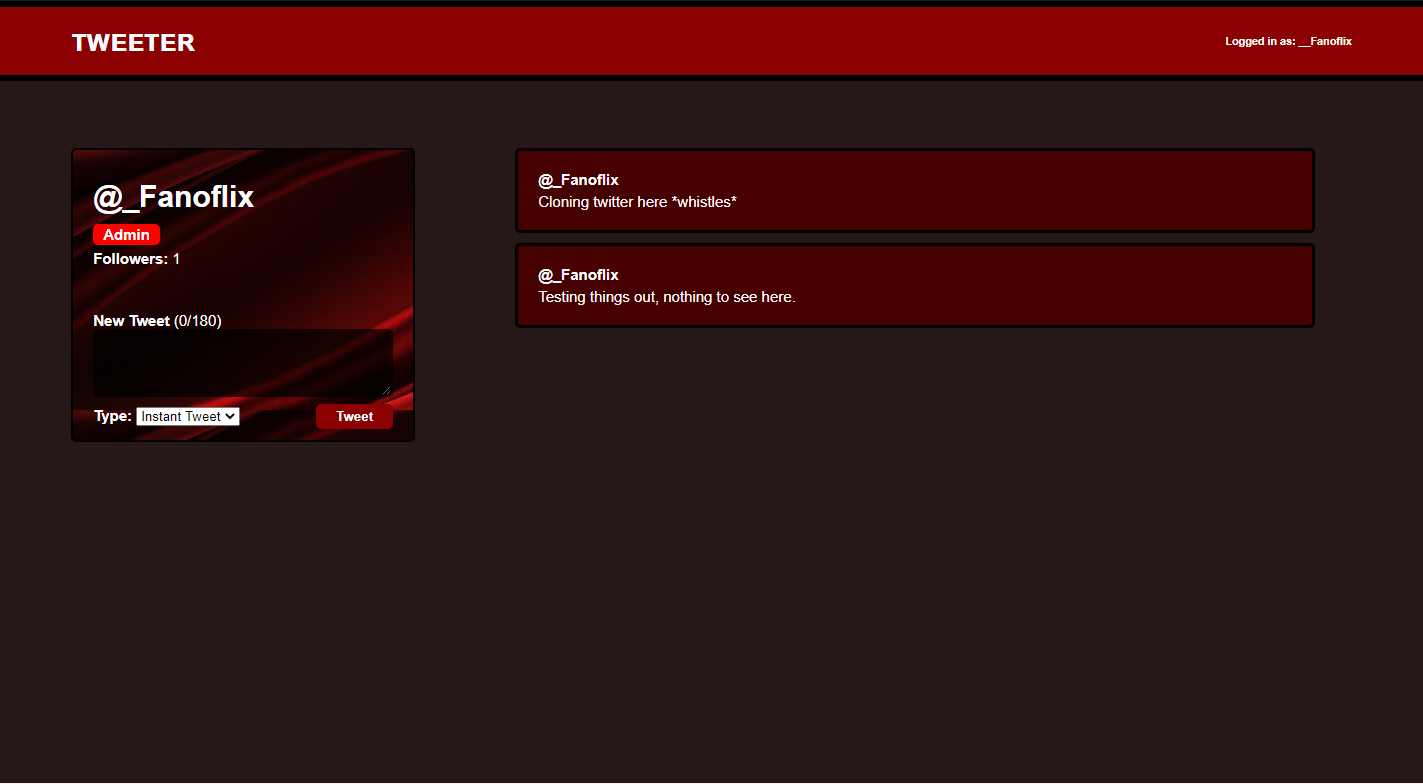
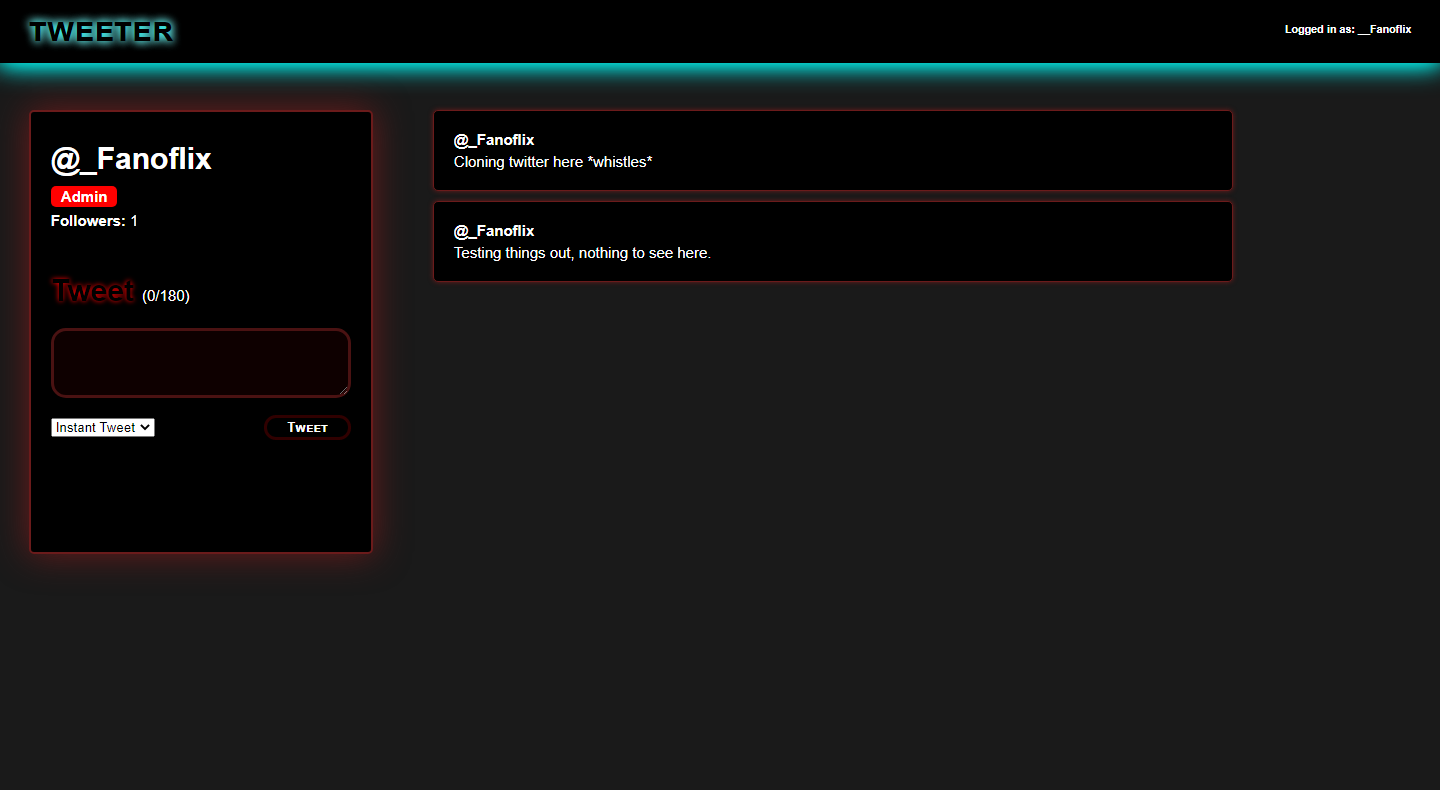
Major Overhaul
-- Full Theme overhaul

diff --git a/src/components/UserProfile.vue b/src/components/UserProfile.vue
@@ -90,24 +90,26 @@ export default {
 
 .user-profile {
   display: grid;
-  grid-template-columns: 1fr 3fr;
+  grid-template-columns: 1fr 5fr;
   grid-gap: 50px;
-  width: 100%;
-  padding: 50px 5%;
+  width: 90%;
+  padding: 30px 2%;
 
   .user-profile__user-panel {
-    //background-image: radial-gradient(rgb(90, 0, 0), rgb(65, 0, 0), rgb(41, 0, 0));
-    background-image: url("user-panel-background.jpg");
+    // background-image: radial-gradient(rgb(58, 0, 0), rgb(0, 0, 0), rgb(24, 24, 24));
+    // background-image: url("user-panel-background.jpg");
     display: flex;
     color: white;
     flex-direction: column;
-    margin-right: 50px;
+    margin-right: 10px;
+    margin-left: 0px;
     padding: 20px 20px;
     background-color: black;
     border-radius: 5px;
-    border: 2px solid black;
+    border: 2px solid  rgb(107, 27, 27);
+    box-shadow: 0px 0px 35px  rgb(107, 27, 27);
     width: 300px;
-    height: 250px;
+    height: 400px;
 
     h1 {
       padding: 10px 0px;
@@ -116,6 +118,12 @@ export default {
 
     .user-profile__username {
       padding: 10px 0px;
+      transition: all 0.3s ease-out;
+      cursor: pointer;
+      &:hover {
+        text-shadow: 0px 0px 10px rgb(0, 255, 251), -1px -1px 5px rgb(255, 255, 255), 1px 1px 5px white;
+        color:rgb(0, 0, 0)
+      }
     }
 
     .user-profile__admin-badge {
@@ -135,7 +143,7 @@ export default {
 
     .tweet-item{
       margin-right: 50px;
-    max-width: 10px;
+      max-width: 10px;
     }
   }
 }

diff --git a/src/App.vue b/src/App.vue
@@ -37,9 +37,8 @@ export default {
 //Website Theme
 :root {
   --main-bg-color: rgb(26, 26, 26);
-  --nav-bar-color: rgb(82, 0, 0);
-  --shadow-color:  rgb(21, 21, 21);
-  --nav-bar-height: 10px;
+  --nav-bar-color: rgb(0, 0, 0);
+  --nav-bar-height: 20px;
 }
 
 
@@ -60,10 +59,13 @@ export default {
     justify-content: space-between;
     padding: 10px 2%;
     color: white;
+    box-shadow: 0px 0px 20px rgb(0, 255, 251), 0px 0px 30px rgb(0, 255, 251);
 
     .nav__logo {
       font-weight: bold;
-      font-size: 30px;
+      font-size: 35px;
+      text-shadow: 0px 0px 10px rgb(0, 255, 251), 0px 0px 10px rgb(255, 255, 255);
+      color: rgb(0, 0, 0);
       font-variant-caps: all-petite-caps;
     }
 
@@ -73,15 +75,15 @@ export default {
     }
   }
 
-  .container-top {
-    min-height: var(--nav-bar-height);
-    background-image: linear-gradient(  var(--main-bg-color),var(--shadow-color));
-  }
+  // .container-top {
+  //   min-height: var(--nav-bar-height);
+  //   background-image: linear-gradient(  var(--main-bg-color), var(--shadow-fade-color), var(--shadow-color));
+  // }
 
-  .container-bottom { 
-    min-height: var(--nav-bar-height);
-    background-image: linear-gradient( var(--shadow-color), var(--main-bg-color) );
-  }
+  // .container-bottom { 
+  //   min-height: var(--nav-bar-height);
+  //   background-image: linear-gradient( var(--shadow-color),var(--shadow-fade-color), var(--main-bg-color) );
+  // }
 
   
 }

diff --git a/src/components/TweetItem.vue b/src/components/TweetItem.vue
@@ -38,15 +38,19 @@ export default {
 
 
 <style lang="scss" scoped>
+:root {
+    --tweet-wrapper-color: black;
+}
 .tweet-item {
     padding: 20px;
-    background-color: rgb(63, 1, 1);
+    background-color: black;
     color: white;
     border-radius: 5px;
-    border: 3px solid black;
+    border: 1px solid  rgb(107, 27, 27);
+    box-shadow: 0px 0px 5px rgb(107, 27, 27);
     box-sizing: border-box;
     cursor: pointer;
-    transition: all 0.1s ease;
+    transition: all 0.3s ease;
     max-width: 800px;
 
     .tweet-item__user {
@@ -56,13 +60,11 @@ export default {
 
     // &:hover is just saying add hover to the parent class. This is part of SCSS.
     &:hover {
+        box-shadow: 0px 0px 10px rgb(0, 255, 251);
+        border-color: rgb(0, 255, 251);
         transform: scale(1.06, 0.99);
     }
 }
-
-
-
-
 
 .gap {
     height: 10px;
